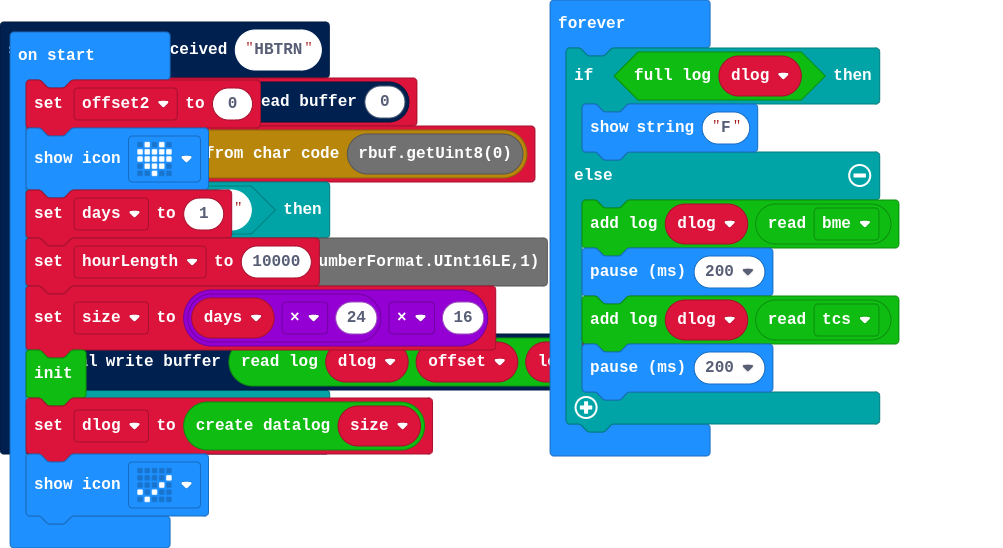
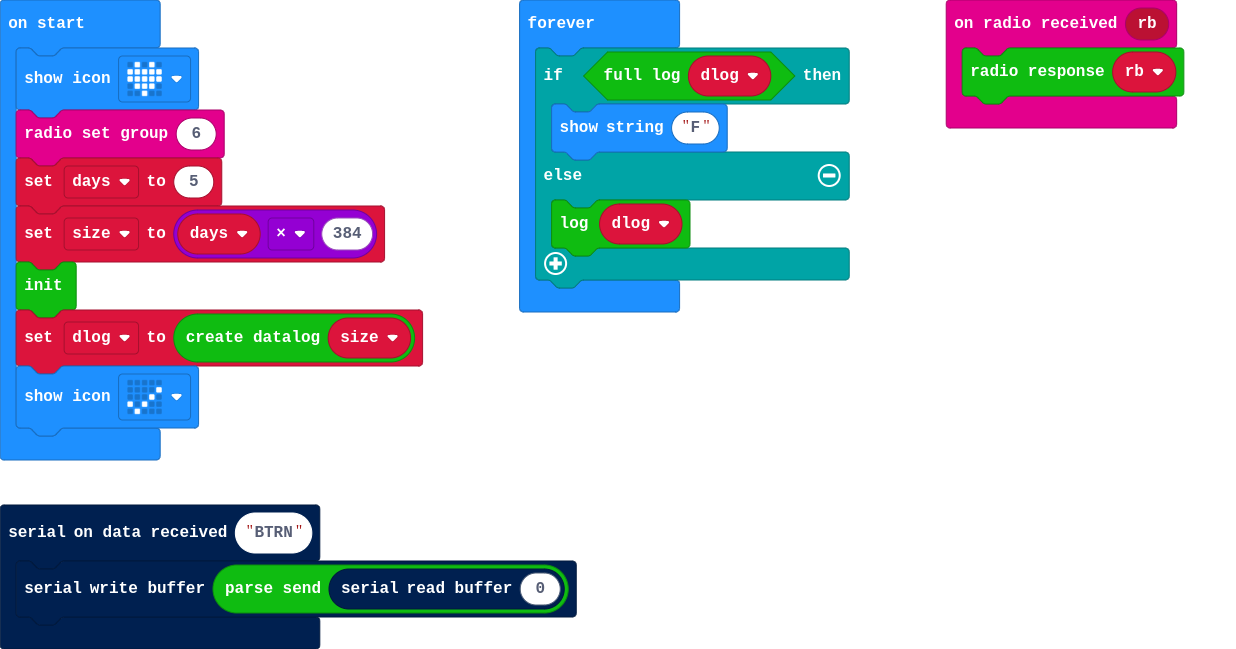
Sort of ready - radio and serial downloads seems to work

diff --git a/response.ts b/response.ts
@@ -1,0 +1,48 @@
+/**
+* Response to command sequences
+*/
+
+/**
+ * Custom blocks
+ */
+//% weight=100 color=#0fbc11 icon="℟"
+namespace response {
+    let buffer = pins.createBuffer(19)
+    let end = 0
+    function set32(num: number) {
+        buffer.setNumber(NumberFormat.UInt32LE, 0, num)
+        end = 4
+    }
+    /**
+    * Parse request
+    */
+    //% block
+    export function parseSend(rbuf: Buffer): Buffer {
+        let c = String.fromCharCode(rbuf.getUint8(0))
+        switch (c) {
+            case "T":
+                set32(input.runningTime() / 1000)
+                return buffer.slice(0, 4);
+            case "R":
+                control.reset()
+                return buffer.slice(0, 4);
+            case "N":
+                set32(dlog.end)
+                return buffer.slice(0, 4);
+            case "B":
+                let readOffset = rbuf.getNumber(NumberFormat.UInt16LE, 1)
+                let readLength = rbuf.getUint8(3)
+                return dlog.buffer.slice(readOffset, readLength);
+            default:
+                end = 0
+                return null;
+        }
+    }
+    /**
+    * Radio response
+    */
+    //% block
+    export function radioResponse(rbuf: Buffer): void{
+        radio.sendBuffer(parseSend(rbuf))
+    }
+}

diff --git a/main.ts b/main.ts
@@ -1,30 +1,20 @@
-serial.onDataReceived("HBTRN", function () {
-    rbuf = serial.readBuffer(0)
-    c = String.fromCharCode(rbuf.getUint8(0))
-    if (c == "B") {
-        let offset = rbuf.getNumber(NumberFormat.UInt16LE,1)
-let length=rbuf.getUint8(3)
-serial.writeBuffer(datalog.readLog(dlog, offset, length))
-    }
+radio.onReceivedBuffer(function (rb) {
+    response.radioResponse(rb)
 })
-let c = ""
-let rbuf: Buffer = null
-let dlog: Datalog = null
-let offset2 = 0
+serial.onDataReceived("BTRN", function () {
+    serial.writeBuffer(response.parseSend(serial.readBuffer(0)))
+})
 basic.showIcon(IconNames.Heart)
-let days = 1
-let hourLength = 10000
-let size = days * 24 * 16
+radio.setGroup(6)
+let days = 5
+let size = days * 384
 I2C.init()
-dlog = datalog.createDatalog(size)
+let dlog = datalog.createDatalog(size)
 basic.showIcon(IconNames.Yes)
 basic.forever(function () {
     if (datalog.fullLog(dlog)) {
         basic.showString("F")
     } else {
-        datalog.addLog(dlog, I2C.read(Device.BME))
-        basic.pause(200)
-        datalog.addLog(dlog, I2C.read(Device.TCS))
-        basic.pause(200)
+        action.log(dlog)
     }
 })

diff --git a/action.ts b/action.ts
@@ -1,0 +1,28 @@
+/**
+* Hourly action
+*/
+
+/**
+ * Custom blocks
+ */
+//% weight=100 color=#0fbc11 icon="⌛"
+namespace action {
+    function hourTime() {
+        return input.runningTime() / hourLength
+    }
+    let hour = 0
+    let sec =1000
+    let hourLength=60*60*sec
+    /**
+* Logging every hour
+*/
+    //% block
+    export function log(dlog: Datalog): void {
+        if (hour < hourTime()) {
+            datalog.addLog(dlog, I2C.read(Device.BME))
+            datalog.addLog(dlog, I2C.read(Device.TCS))
+            hour += 1
+            basic.showNumber(hour % 10)
+        }
+    }
+}

diff --git a/datalog.ts b/datalog.ts
@@ -1,6 +1,6 @@
 /**
-* Log access
-*/
+ * Log access
+ */
 class Datalog {
     buffer: Buffer;
     end: number;
@@ -22,8 +22,8 @@ class Datalog {
 //% weight=100 color=#0fbc11 icon="✎"
 namespace datalog {
     /**
- * Create datalog
- */
+     * Create datalog
+     */
     //% block
     export function createDatalog(size: number): Datalog {
         return new Datalog(size)
